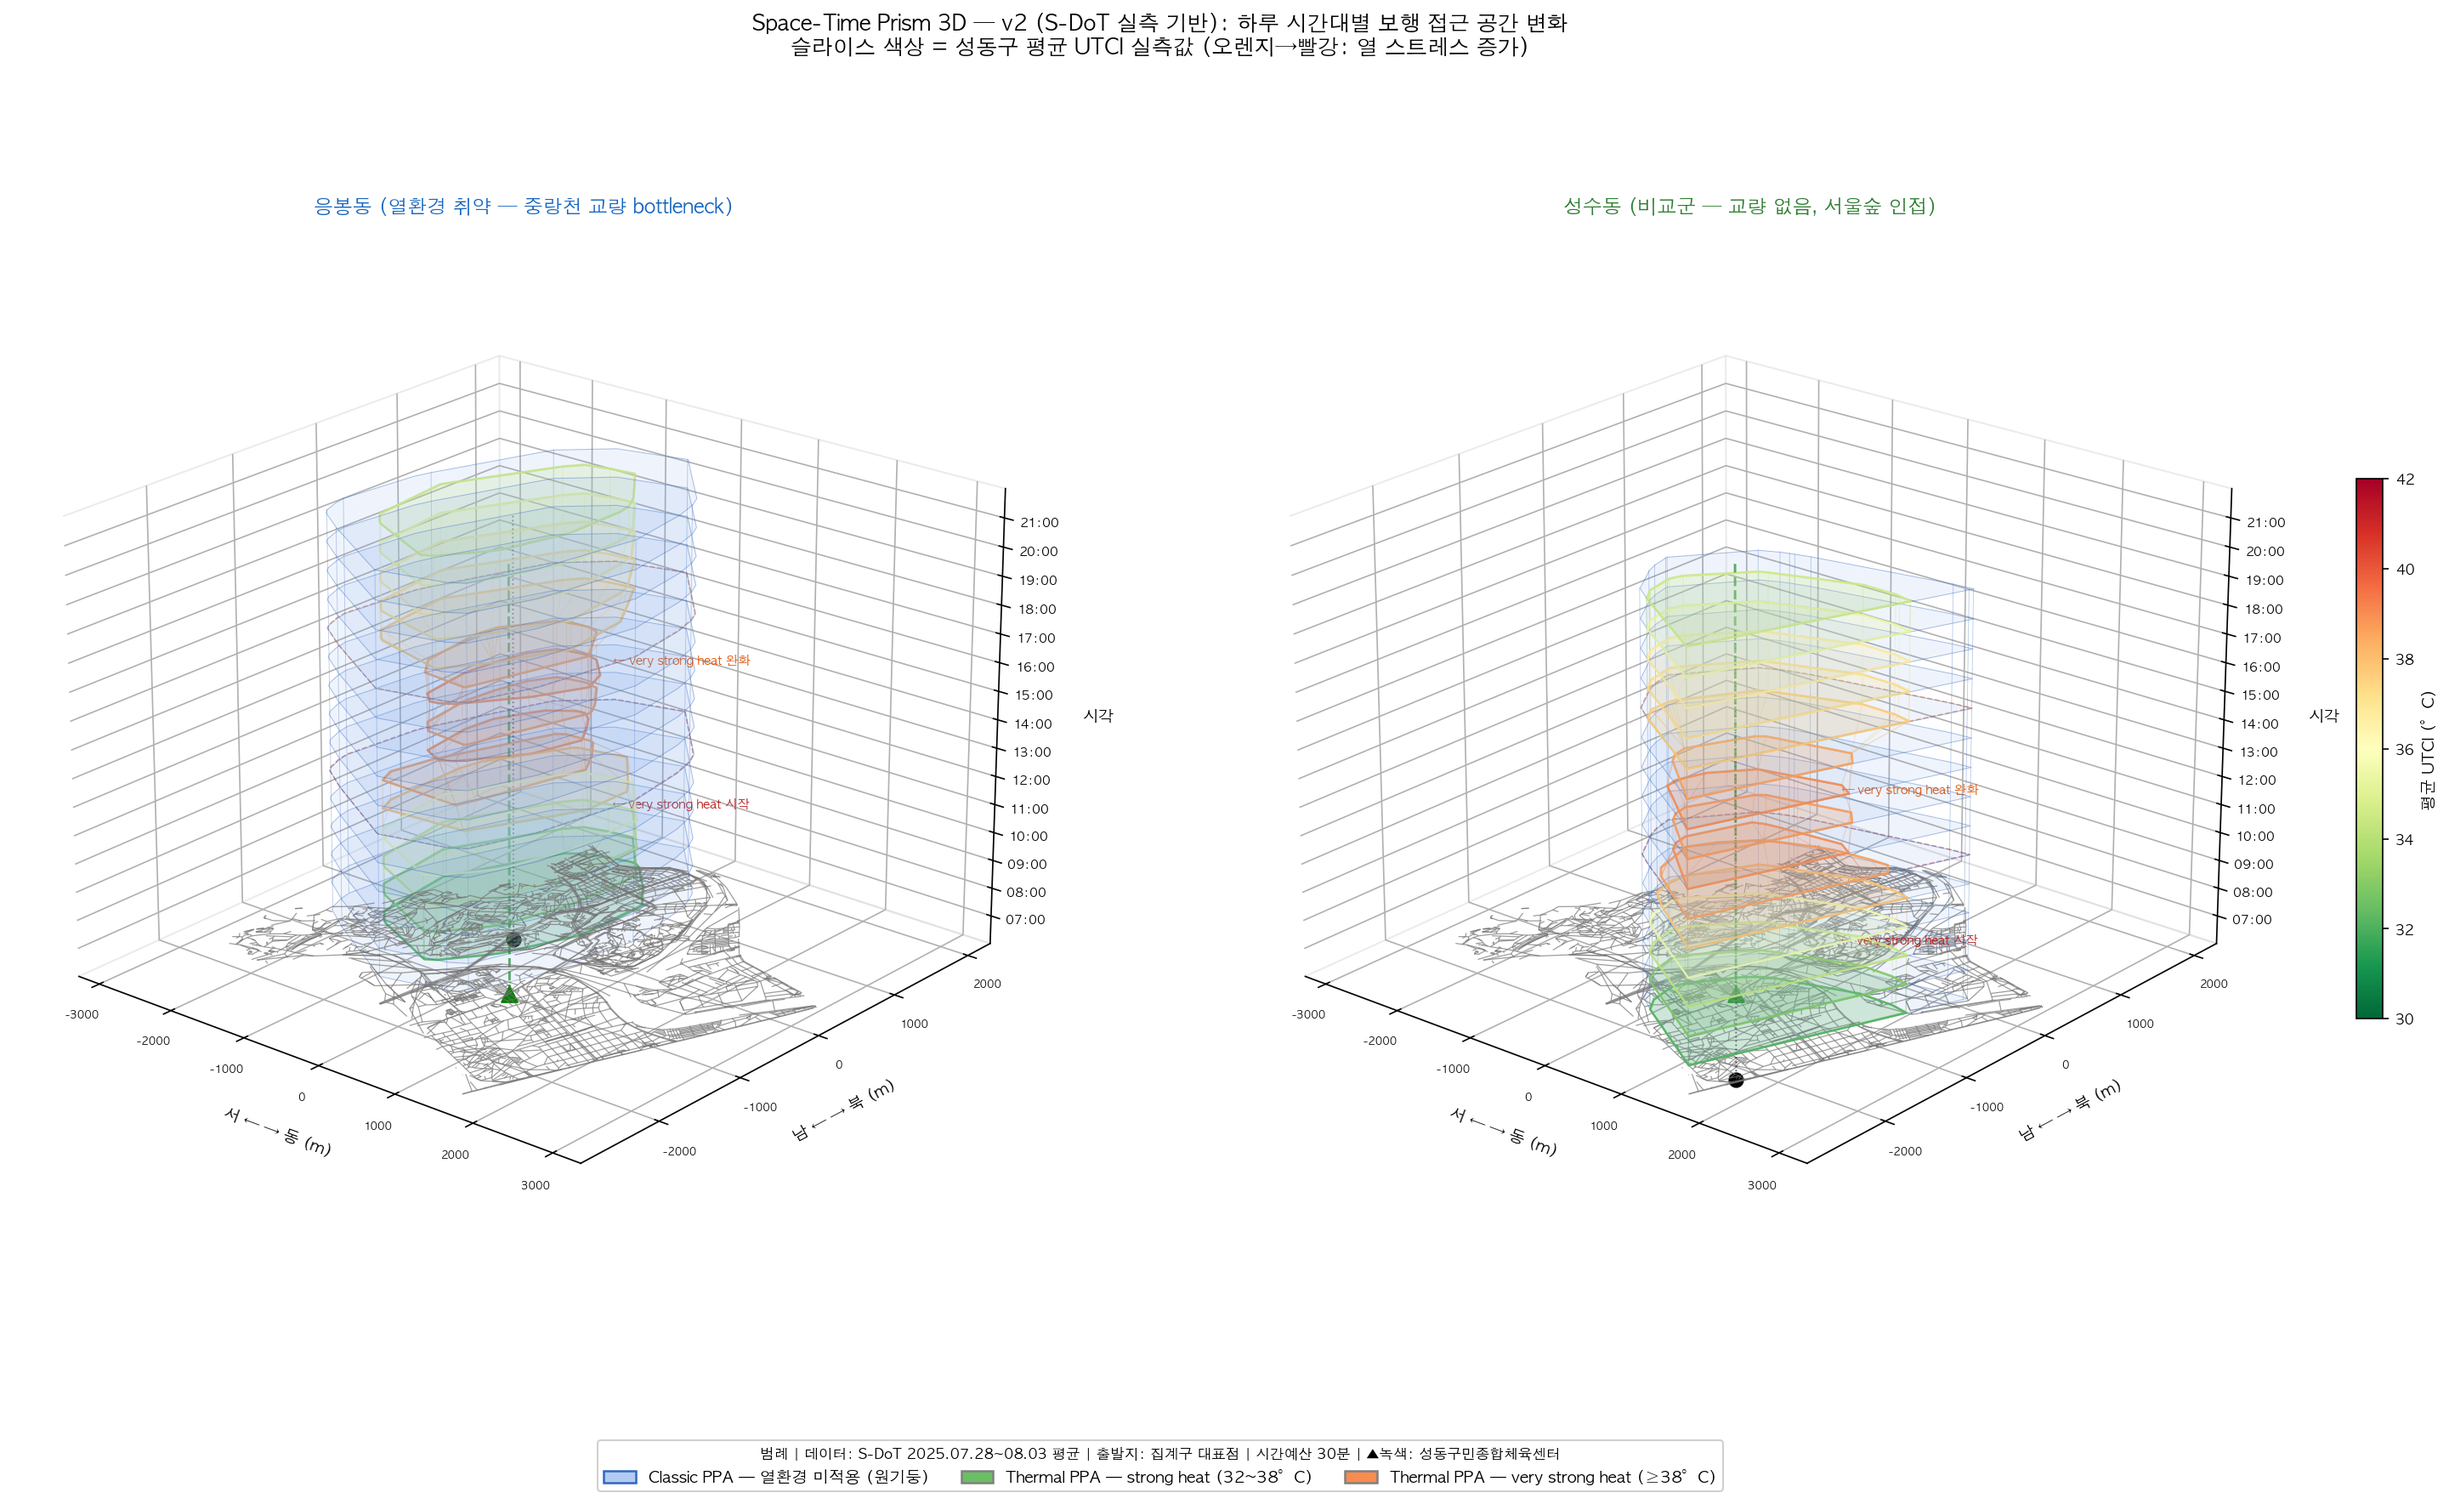
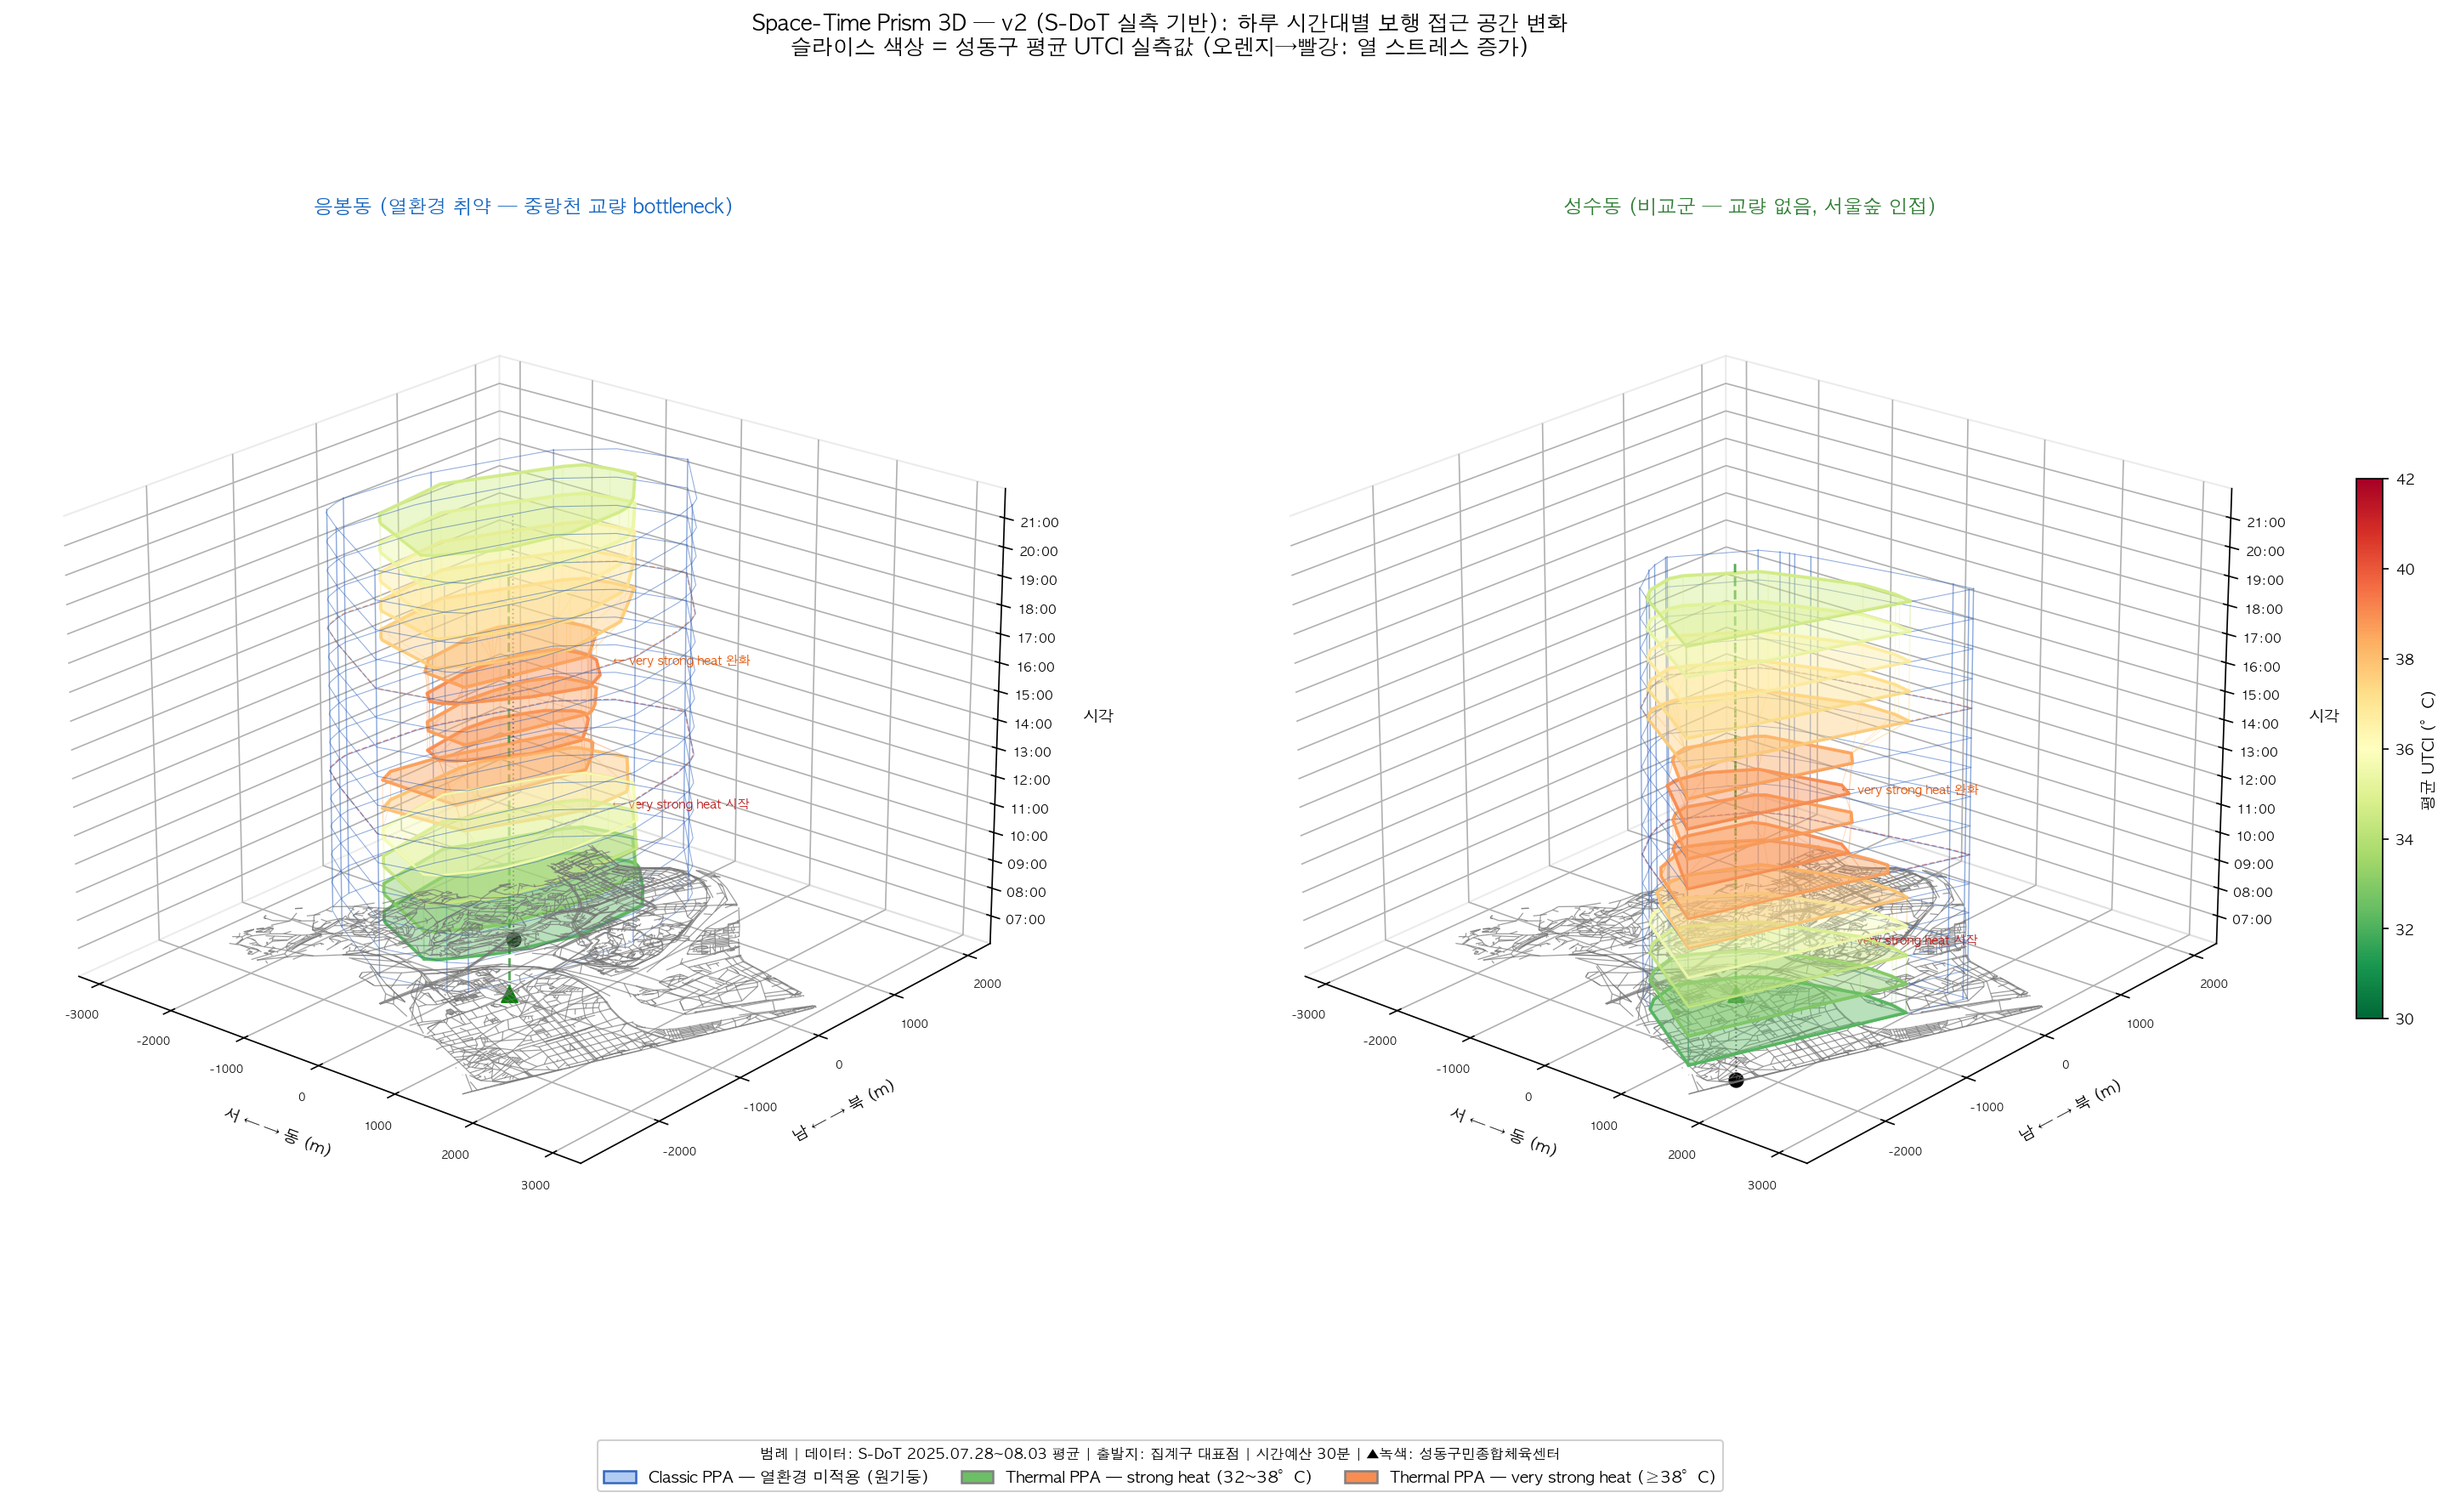
Fix 3D viz: improve thermal slice visibility in 응봉동 panel
- Classic PPA: face alpha 0.10→0.0 (윤곽선만, 면 채움 제거)
- Thermal 슬라이스: face alpha 0.22→0.42, edge linewidth 1.0→1.2/1.8
- Classic 수직선: linewidth 0.4→0.7, alpha 0.35→0.55

Changed region(s): [[0.125, 0.3109, 0.2812, 0.6529], [0.656, 0.3731, 0.781, 0.7151]]

diff --git a/04_분석결과/07_stp_3d_daily_v2_sdot.py b/04_분석결과/07_stp_3d_daily_v2_sdot.py
@@ -46,11 +46,12 @@ HOURS        = list(range(7, 22))   # 07~21시
 CMAP   = cm.get_cmap('RdYlGn_r')
 NORM   = mcolors.Normalize(vmin=30, vmax=42)
 
-def utci_to_rgba(utci_val, alpha_face=0.22, alpha_edge=0.80):
+def utci_to_rgba(utci_val, alpha_face=0.42, alpha_edge=0.90):
     r, g, b, _ = CMAP(NORM(utci_val))
     return (r, g, b, alpha_face), (r, g, b, alpha_edge)
 
-CLASSIC_STYLE = {"face": (0.40, 0.60, 0.90, 0.10), "edge": (0.20, 0.40, 0.75, 0.40)}
+# Classic PPA: 면 채움 없이 윤곽선만 → Thermal 슬라이스가 가려지지 않도록
+CLASSIC_STYLE = {"face": (0.40, 0.60, 0.90, 0.0), "edge": (0.20, 0.40, 0.75, 0.55)}
 
 # ── 1. link_utci 로드 → (u, v, hour) → speed_factor ─────────────────
 print("링크 UTCI 로드...")
@@ -174,7 +175,7 @@ for col, (district, origin) in enumerate(origins.items()):
         for i in range(0, len(c_hull), step):
             px, py = c_hull[i]
             ax.plot([px, px], [py, py], [HOURS[0], HOURS[-1]],
-                    color=(0.20, 0.40, 0.75), linewidth=0.4, alpha=0.35, zorder=2)
+                    color=(0.20, 0.40, 0.75), linewidth=0.7, alpha=0.55, zorder=2)
 
     # Thermal PPA 슬라이스 (시간대별 실측 UTCI 색상)
     prev_hull_data = None
@@ -190,13 +191,13 @@ for col, (district, origin) in enumerate(origins.items()):
 
         verts = [(x, y, h) for x, y in hull_verts]
         ax.add_collection3d(Poly3DCollection([verts],
-            facecolor=face_c, edgecolor=edge_c, linewidth=1.0, zorder=4))
+            facecolor=face_c, edgecolor=edge_c, linewidth=1.2, zorder=4))
 
         # 윤곽선
         hx = [v[0] for v in verts] + [verts[0][0]]
         hy = [v[1] for v in verts] + [verts[0][1]]
         ax.plot(hx, hy, [h]*(len(verts)+1), color=edge_c[:3],
-                linewidth=1.2, alpha=edge_c[3], zorder=5)
+                linewidth=1.8, alpha=edge_c[3], zorder=5)
 
         # 이전 슬라이스와 연결선
         if prev_hull_data is not None:
